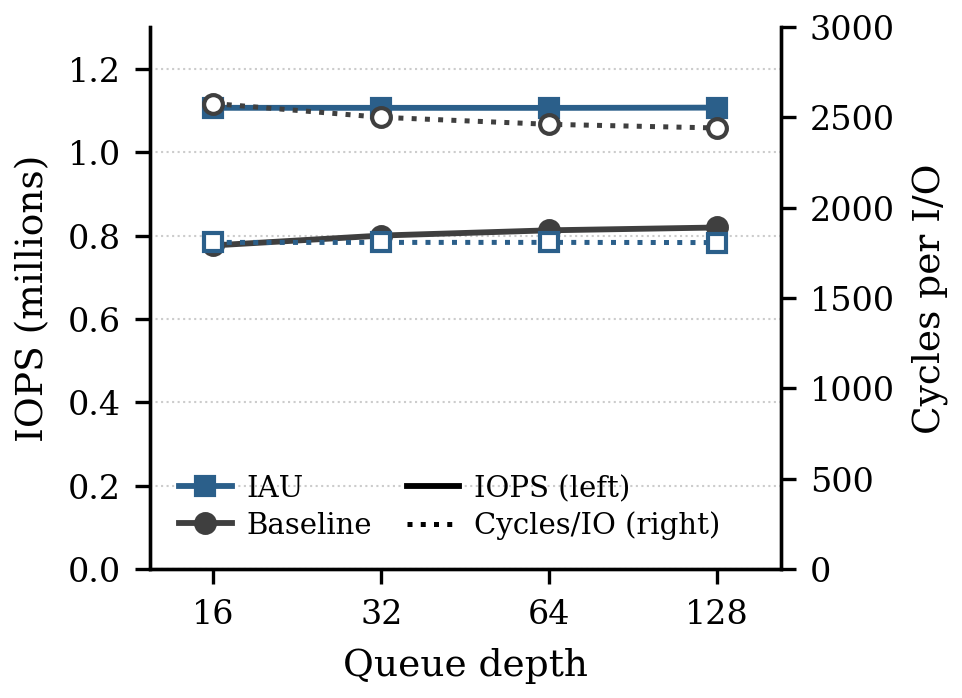
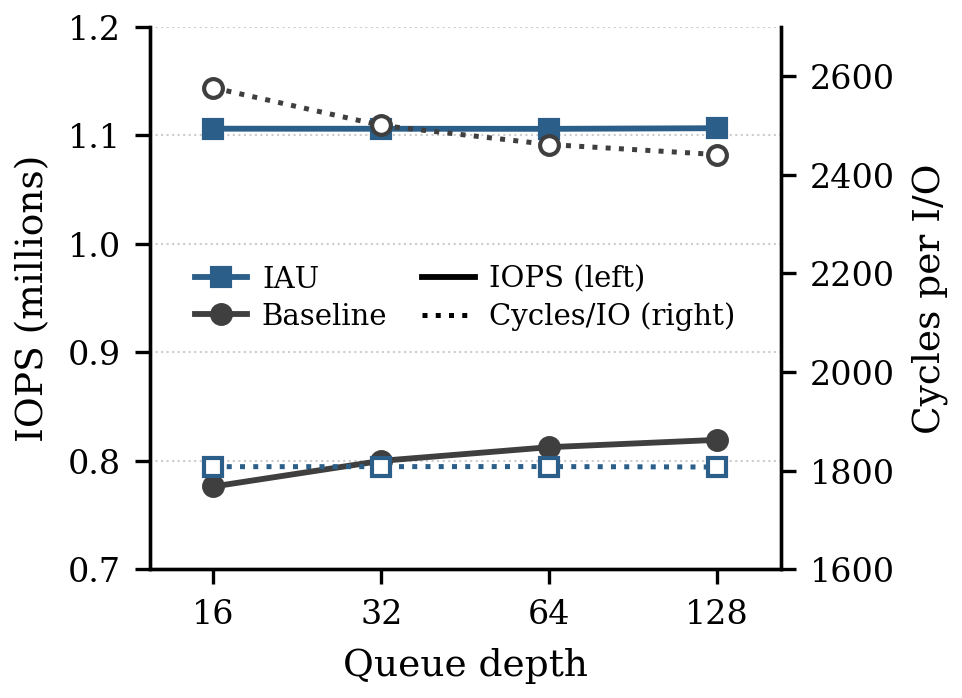
docs: zoom QD-sweep figure axes to show the IAU-vs-baseline gap
Change the IOPS axis from 0-1.3 M to a 0.70-1.20 M window (and cycles/IO to
1600-2700) so the ~1.35x throughput gap is visually obvious instead of
compressed against a zero-based axis. Legend moved to the empty middle band.
Same data and style; only axis limits and legend position change.

diff --git a/scripts/plot_qd_sweep.py b/scripts/plot_qd_sweep.py
@@ -136,12 +136,14 @@ def plot(repo_root: Path, out_prefix: Path) -> None:
     ax_iops.set_xlabel("Queue depth")
 
     ax_iops.set_ylabel("IOPS (millions)")
-    ax_iops.set_ylim(0, 1.3)
+    # Axis zoomed to the data region (not zero-based) so the 1.35x gap is
+    # visible; both configurations and both metrics keep clear separation.
+    ax_iops.set_ylim(0.70, 1.20)
     ax_iops.yaxis.grid(True, linestyle=":", linewidth=0.5, color=GREY_LIGHTER)
     ax_iops.set_axisbelow(True)
 
     ax_cyc.set_ylabel("Cycles per I/O")
-    ax_cyc.set_ylim(0, 3000)
+    ax_cyc.set_ylim(1600, 2700)
 
     # Legend: colour encodes configuration, line style encodes metric.
     handles = [
@@ -154,8 +156,8 @@ def plot(repo_root: Path, out_prefix: Path) -> None:
         Line2D([0], [0], color="black", linewidth=1.2, linestyle=":",
                label="Cycles/IO (right)"),
     ]
-    ax_iops.legend(handles=handles, loc="lower left", frameon=False,
-                   handlelength=1.8, handletextpad=0.5, borderaxespad=0.6,
+    ax_iops.legend(handles=handles, loc="center", frameon=False,
+                   handlelength=1.8, handletextpad=0.5, borderaxespad=0.4,
                    labelspacing=0.3, ncol=2, columnspacing=1.2)
 
     fig.tight_layout()
